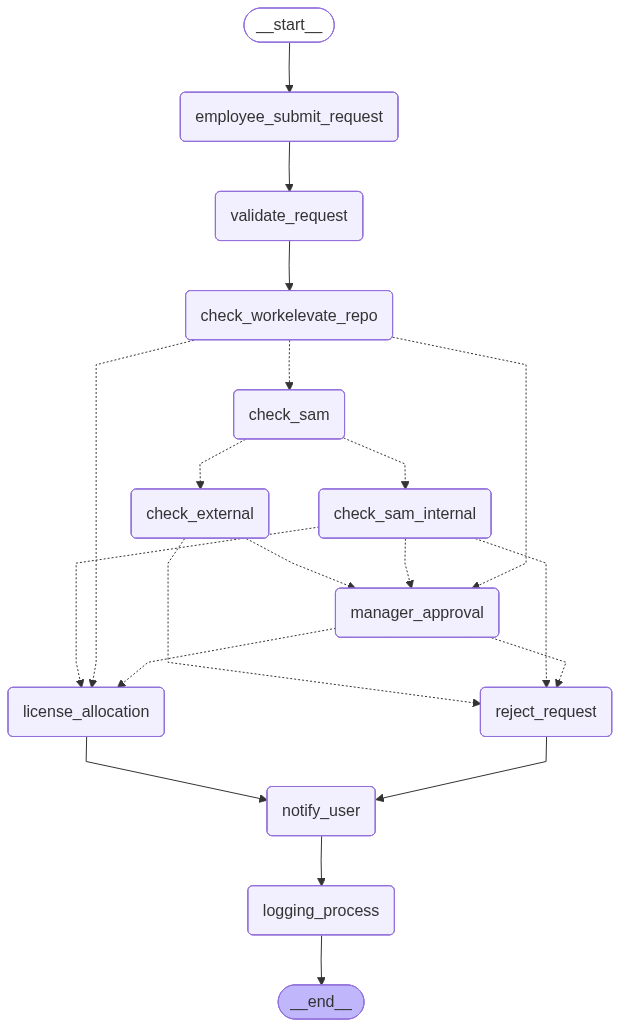
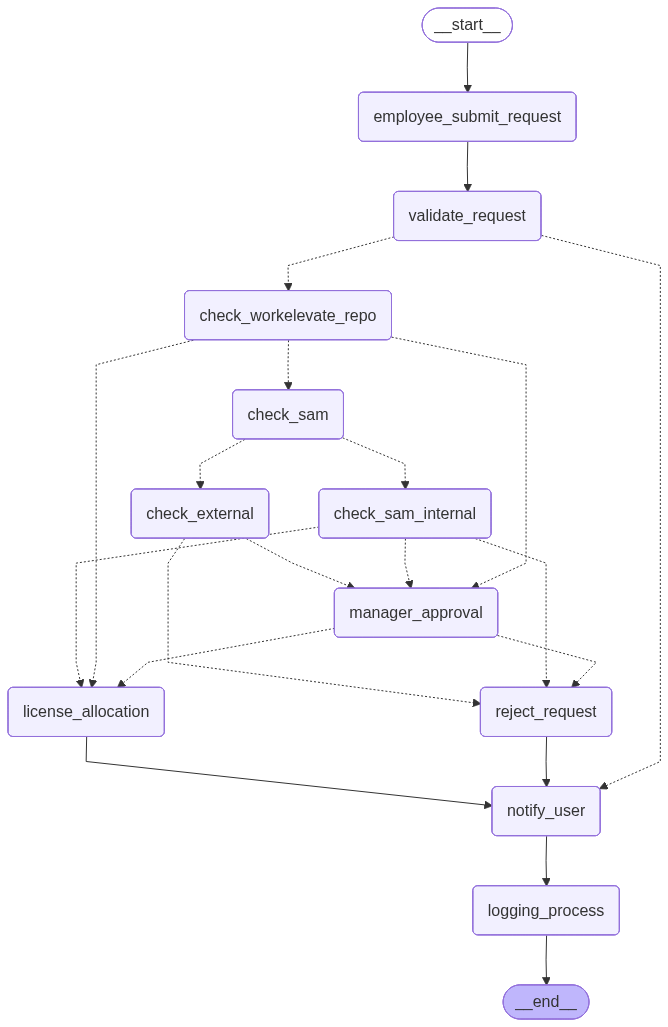
Updated State Management

diff --git a/agent/workflow.py b/agent/workflow.py
@@ -16,6 +16,12 @@ from agent.nodes.logging_process_node import logging_process_node
 
 
 def build_graph():
+    def route_after_validation(state):
+        if state["is_request_valid"] is False:
+            return "notify_user"
+        else:
+            return "check_workelevate_repo"
+
     def route_after_check_workelevate_repo(state):
         if state["software_source"] != "workelevate":
             return "check_sam"
@@ -66,10 +72,18 @@ def build_graph():
 
     graph.add_edge(START, "employee_submit_request")
     graph.add_edge("employee_submit_request", "validate_request")
-    graph.add_edge("validate_request", "check_workelevate_repo")
     graph.add_edge("reject_request", "notify_user")
     graph.add_edge("license_allocation", "notify_user")
     graph.add_edge("notify_user", "logging_process")
+
+    graph.add_conditional_edges(
+        "validate_request",
+        route_after_validation,
+        {
+            "notify_user": "notify_user",
+            "check_workelevate_repo": "check_workelevate_repo"
+        }
+    )
 
     graph.add_conditional_edges(
         "check_workelevate_repo",

diff --git a/agent/nodes/check_sam_internal_node.py b/agent/nodes/check_sam_internal_node.py
@@ -3,10 +3,16 @@ def check_sam_internal_node(state):
 
     if state["is_software_blacklisted"]:
         print("Requested software is blacklisted.")
+        state["is_request_valid"] = False
+        state["requires_manager_approval"] = False
         state["reason_rejection"] = "Requested software is blacklisted."
     elif state["is_software_restricted"]:
         print("Requested software is restricted. Requires manager approval.")
+        state["is_request_valid"] = True
+        state["requires_manager_approval"] = True
     else:
         print("Requested software can be installed and license can be allocated.")
+        state["is_request_valid"] = True
+        state["requires_manager_approval"] = False
     
     return state

diff --git a/agent/nodes/check_external_node.py b/agent/nodes/check_external_node.py
@@ -3,7 +3,10 @@ def check_external_node(state):
 
     if state["is_software_blacklisted"]:
         print("Requested software is blacklisted.")
+        state["is_request_valid"] = False
         state["reason_rejection"] = "Requested software is blacklisted and not present in Workelevate repo or SAM."
     else:
         print("Requested software requires manager approval as it is not present in the organization's repo.")
+        state["is_request_valid"] = True
+        state["requires_manager_approval"] = True
     return state

diff --git a/agent/nodes/check_workelevate_repo_node.py b/agent/nodes/check_workelevate_repo_node.py
@@ -12,6 +12,8 @@ def check_workelevate_repo_node(state):
 
     state["software_requested"] = best_match
     state["software_type"] = software_obj["license_type"]
+    if state["software_type"] == "licensed":
+        state["requires_manager_approval"] = True
     state["is_software_restricted"] = software_obj["is_restricted"]
     state["is_software_blacklisted"] = software_obj["is_blacklisted"]
     state["software_source"] = software_obj["source"]

diff --git a/agent/nodes/check_sam_node.py b/agent/nodes/check_sam_node.py
@@ -1,8 +1,9 @@
 def check_sam_node(state):
+    print("Requested software is not present in workelevate repo.")
     print("Checking if requested software is present in SAM.")
 
     if state["software_source"] == "sam":
         print("Software exists in SAM")
     else:
-        print("Software is not present in SAM")
+        print("Requested software is not present in SAM")
     return state

diff --git a/agent/nodes/validate_request_node.py b/agent/nodes/validate_request_node.py
@@ -18,4 +18,7 @@ async def validate_request_node(state):
         state["is_request_valid"] = False
         state["requires_manager_approval"] = False
         state["reason_rejection"] = "Invalid employee ID"
-        return state
+    else:
+        state["is_request_valid"] = True
+    
+    return state

diff --git a/agent/main.py b/agent/main.py
@@ -15,8 +15,8 @@ async def main(app):
         "software_type": "",
         "is_software_restricted": False,
         "is_software_blacklisted": False,
-        "reason_rejection": "",
         "manager_decision": "",
+        "reason_rejection": "",
         "llm_response": {}
     }
 

diff --git a/agent/state.py b/agent/state.py
@@ -10,6 +10,6 @@ class SoftwareRequestState(TypedDict):
     software_type: str
     is_software_restricted: bool
     is_software_blacklisted: bool
-    reason_rejection : str
     manager_decision : str
+    reason_rejection : str
     llm_response : str
